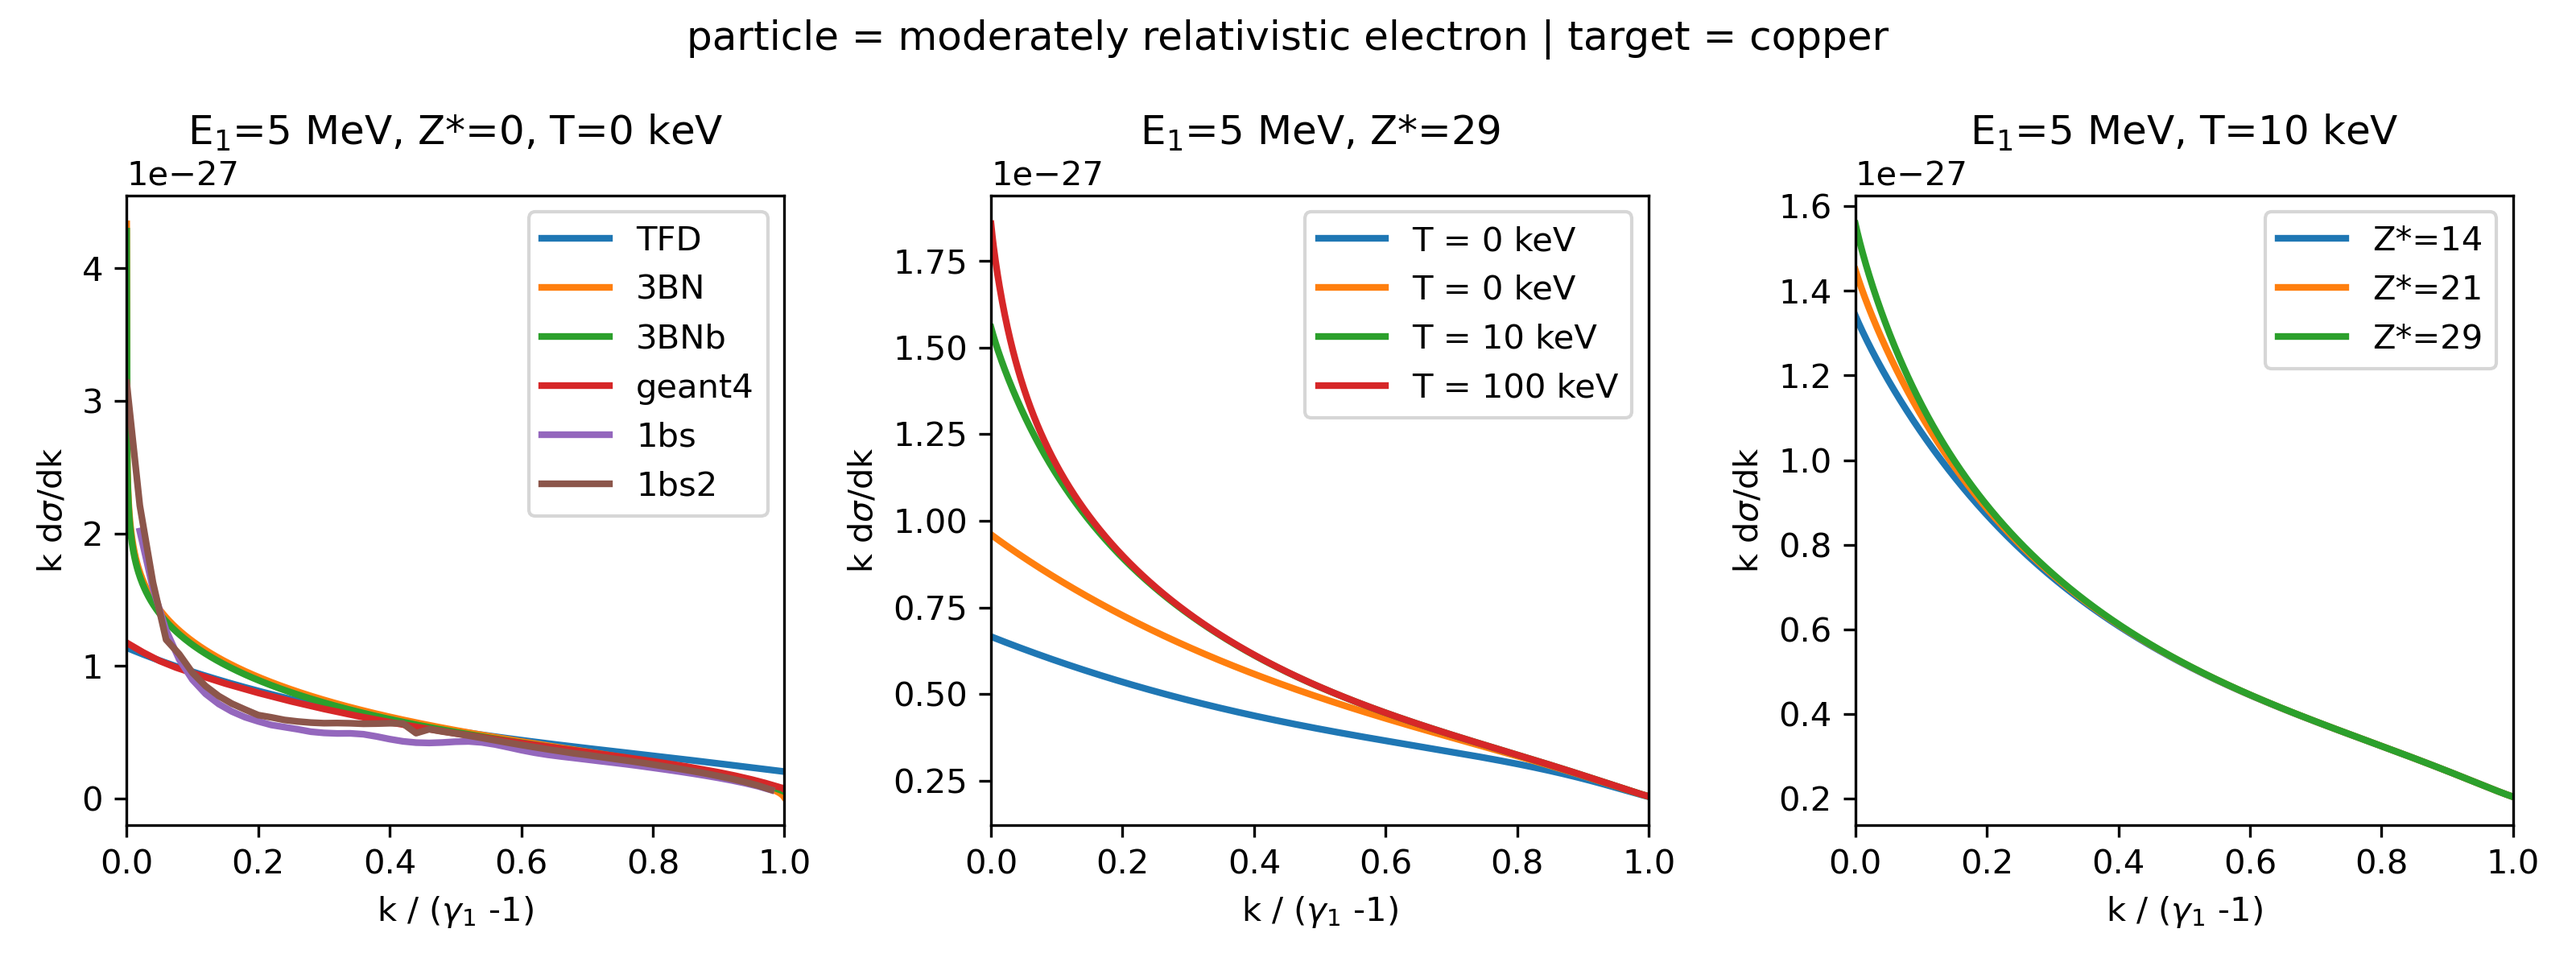
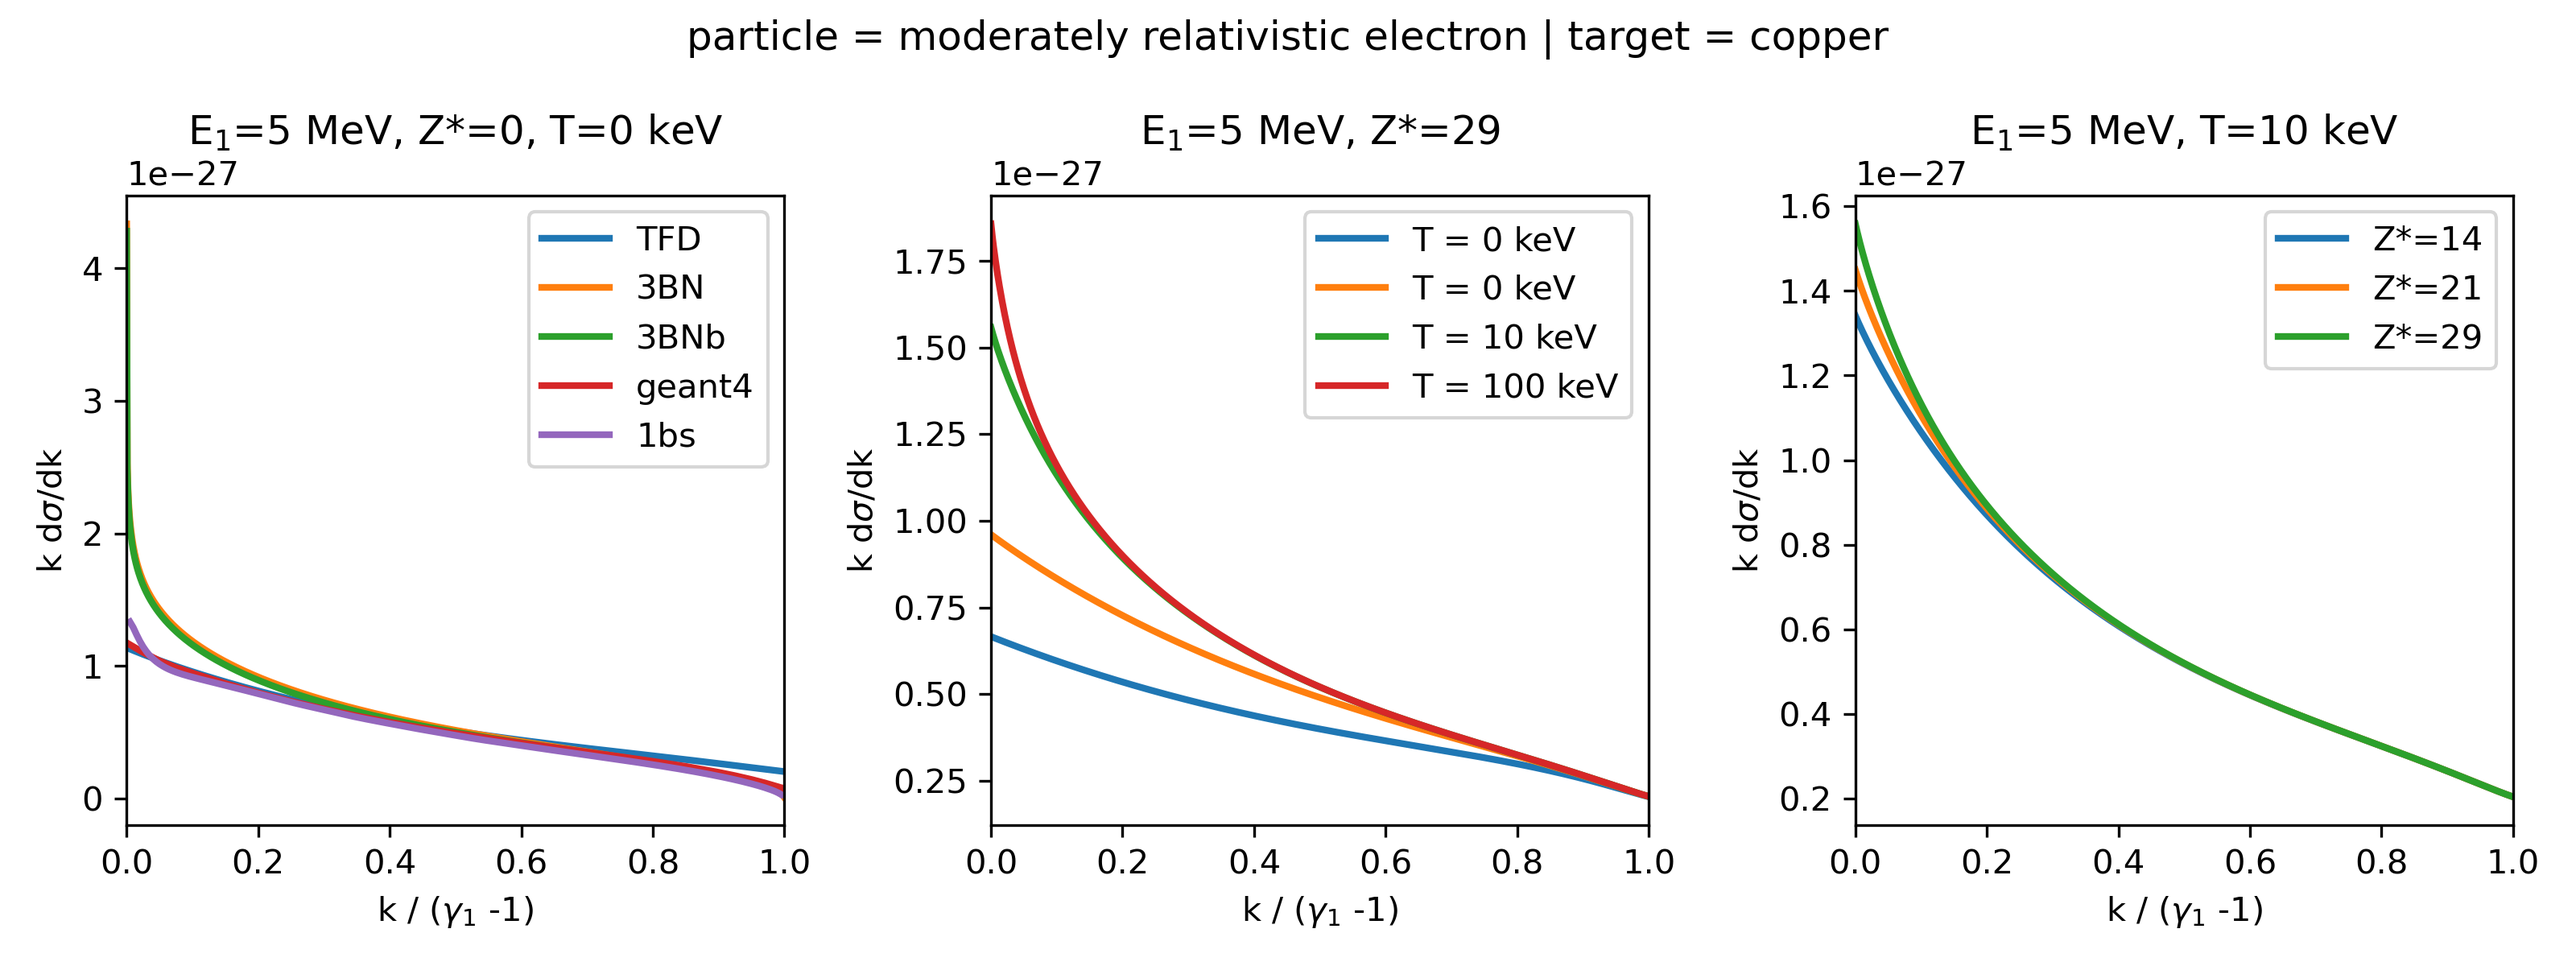
added 1bs to main

diff --git a/main.py b/main.py
@@ -117,9 +117,9 @@ x, y = g4_SB(E1 = E1, Z = Z)
 axs[0].plot(x, y, lw = 2,  label='SB')
 
 # 1bs 
-x, y, y1 = one_BS_num(E1 = E1, Z = Z, Z_star = Z_star, n_at = n_at, T = T, N = 50)
+x, y = one_BS_num(E1 = E1, Z = Z, Z_star = Z_star, n_at = n_at, T = T, N = 200)
 axs[0].plot(x, y, lw = 2,  label='1bs')
-axs[0].plot(x, y1, lw = 2,  label='1bs2')
+#axs[0].plot(x, y1, lw = 2,  label='1bs2')
 
 
 axs[0].set_xlabel(r'k / ($\gamma_1$ -1)')
@@ -187,9 +187,9 @@ x, y = g4_SB(E1 = E1, Z = Z)
 axs[0].plot(x, y, lw = 2,  label='geant4')
 
 # 1bs 
-x, y, y1 = one_BS_num(E1 = E1, Z = Z, Z_star = Z_star, n_at = n_at, T = T, N = 50))
+x ,y = one_BS_num(E1 = E1, Z = Z, Z_star = Z_star, n_at = n_at, T = T, N = 200)
 axs[0].plot(x, y, lw = 2,  label='1bs')
-axs[0].plot(x, y1, lw = 2,  label='1bs2')
+#axs[0].plot(x, y1, lw = 2,  label='1bs2')
 
 
 axs[0].set_xlabel(r'k / ($\gamma_1$ -1)')
@@ -260,9 +260,9 @@ x, y = g4_SB(E1 = E1, Z = Z)
 axs[0].plot(x, y, lw = 2,  label='geant4')
 
 # 1bs 
-x, y, y1 = one_BS_num(E1 = E1, Z = Z, Z_star = Z_star, n_at = n_at, T = T, N = 50)
+x, y = one_BS_num(E1 = E1, Z = Z, Z_star = Z_star, n_at = n_at, T = T, N = 200)
 axs[0].plot(x, y, lw = 2,  label='1bs')
-axs[0].plot(x, y1, lw = 2,  label='1bs2')
+#axs[0].plot(x, y1, lw = 2,  label='1bs2')
 
 
 axs[0].set_title('Z* = %01d, T = %.0f keV' % (Z_star, T/1e3/eV), pad=15)

diff --git a/one_BS.py b/one_BS.py
@@ -89,16 +89,15 @@ def one_BS_num(E1 = 100*1e3*eV, Z = 29, Z_star = 0, n_at = 8.47e+28, T = 0, N = 
     print('trapz time=', execution_time)
     
     
-    start = perf_counter()
-    for k in k_vec:
-        y2.append( tplquad(lambda z,y,x: k_dsigma_dk(x,y,z,g0,k), 0, pi, lambda x: 0, lambda x:  pi, lambda x,y: 0, lambda x,y: 2*pi)[0] )
+    #start = perf_counter()
+    #for k in k_vec:
+    #    y2.append( tplquad(lambda z,y,x: k_dsigma_dk(x,y,z,g0,k), 0, pi, lambda x: 0, lambda x:  pi, lambda x,y: 0, lambda x,y: 2*pi)[0] )
+    #end = perf_counter() 
+    #execution_time = (end - start)
+    #print('tplquad time=', execution_time)
 
-    end = perf_counter() 
-    execution_time = (end - start)
-    print('tplquad time=', execution_time)
 
-
-    return x, y1, y2 
+    return x, y1
 
 
     
